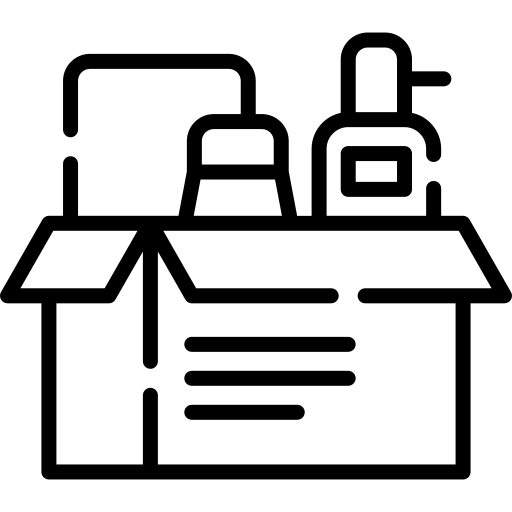
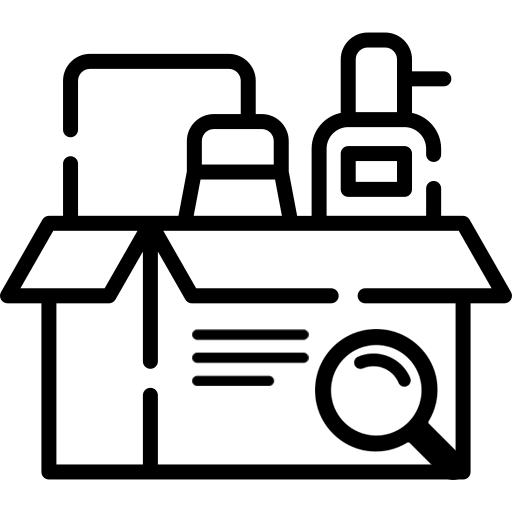
0.0.26

Changed region(s): [[0.3438, 0.625, 0.9062, 0.9062]]

diff --git a/app.boxhouse/src/app/home/template.css b/app.boxhouse/src/app/home/template.css
@@ -9,8 +9,17 @@ content .header{ display: block; width: 100%; height: 40px; line-height: 20px; p
   -webkit-box-shadow: 0px 1px 6px 3px rgba(104,104,104,0.4); box-shadow: 0px 1px 6px 3px rgba(104,104,104,0.4); }
 content .header .text{ font-size: 15px; color: #424B54; }
 
+/* SEARCH */
+content .header .row{ display:block; margin:0 -5px; height:calc(100% - 3px); }
+content .header .search{ display:flex; align-items: center; box-sizing:border-box; width:auto; flex-grow:1; height:40px; overflow:hidden; cursor:pointer; text-align:left; }
+content .header .search input{ display:inline-block; width:100%; height:100%; box-sizing:border-box; margin:0; padding:0 10px; padding-right:50px; background-color:var(--color-lightgrey); border:none; border-radius:5px; outline:none; line-height:auto; font-size:14px; color:#4D5455; -webkit-appearance:none; -moz-appearance:none; -webkit-user-select:initial; -moz-user-select:initial; user-select:initial; }
+content .header .search .btnsearch{ display:inline-block; vertical-align:middle; box-sizing:border-box; width:30px; padding:0; margin:0; margin-left:-45px; overflow:hidden; padding-left:7px; border-left:1px solid rgb(220,220,220); }
+content .header .search .btnsearch img {  height: 20px; }
+
+
+
 /* CARD */
-content .body .card{ display: inline-block; vertical-align: middle; height: 25vh ; padding: 10px; border: 1px solid lightgrey; margin: 10px; border-radius: 10px; text-align: center; box-sizing: border-box; color: white; cursor: pointer; }
+content .body .card{ display: inline-block; vertical-align: middle; height: 25vh ; padding: 10px; border: 1px solid lightgrey; margin: 10px; border-radius: 10px; text-align: center; box-sizing: border-box; color: white; cursor: pointer; background-image: url("../../assets/shared/img/icon-box.svg"); }
 content .body .card:nth-child(1){ margin-top: 20px;}
 content .body .card .text{font-size: 20px; margin-top: 20px; }
 @media (max-width: 900px) {

diff --git a/app.boxhouse/src/app/home/template.html b/app.boxhouse/src/app/home/template.html
@@ -1,8 +1,16 @@
 <content>
   <div class="header">
     <div class = "text">ACCUEIL</div>
+    <div class="row">
+      <div class="search">
+          <input id="Home_search" type="text" placeholder="Rechercher un objet ou une boite" />
+          <div class="btnsearch"><img id="search_icon" src=".../../assets/shared/img/icon-qrcodescan.png"></div>
+      </div>
+    </div>
   </div>
+
   <div class="body">
+
     <div class="card w50">
       <div class="img-container"><img src="../../assets/shared/img/icon-box.svg" /></div>
       <div class = "text">Mes cartons</div>
@@ -19,11 +27,19 @@
       <div class="img-container"><img src="../../assets/shared/img/img-warehouse.png" /></div>
       <div class= "text">Gérer mes zones de stockage</div>
     </div>
+<<<<<<< Updated upstream
     <div class="round account">
       <div class="img-container"><img src="../../assets/shared/img/img-user.png" /></div>
     </div>
     <div class="round scan">
       <div class="img-container qr"><img src="../../assets/shared/img/icon-qrcodescan.png" /></div>
     </div>
+=======
+
+
+    <div class="round">
+      <div class="img-container"><img src="../../assets/shared/img/img-user.png" /></div>
+    </div>
+>>>>>>> Stashed changes
   </div>
 </content>

diff --git a/app.boxhouse/src/app/home/home.component.ts b/app.boxhouse/src/app/home/home.component.ts
@@ -14,8 +14,7 @@ export class HomeComponent implements OnInit {
   private rounds
   private toolbox = new Toolbox()
 
-  constructor() {
-  }
+  constructor() {}
 
   ngOnInit(): void {
     this.session = JSON.parse(sessionStorage.getItem('session'))
